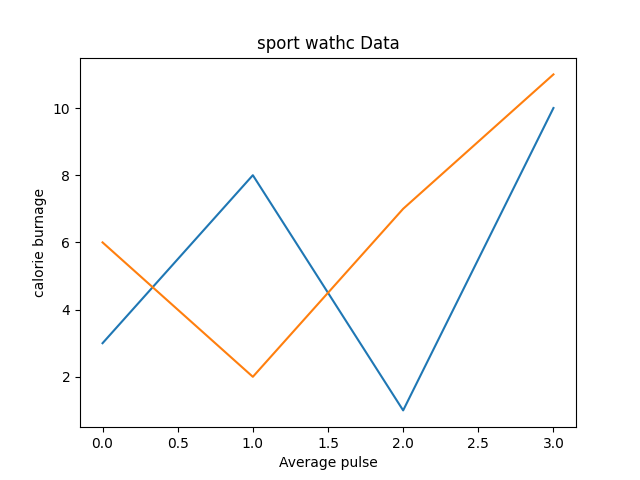
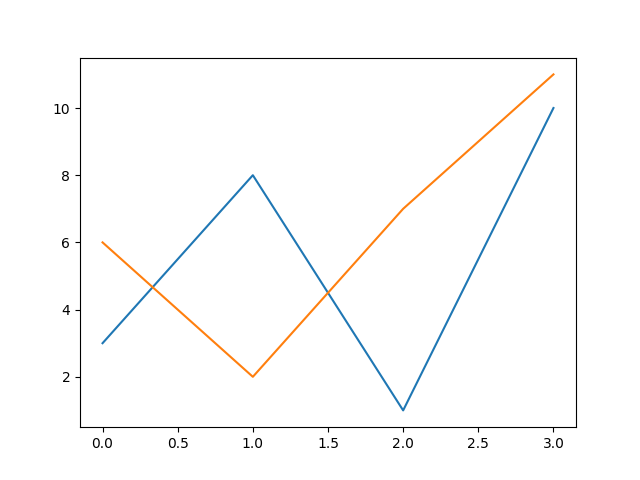
modify code

Changed region(s): [[0.4062, 0.0625, 0.625, 0.125], [0.0312, 0.4062, 0.0938, 0.625], [0.4375, 0.9375, 0.5938, 1.0]]

diff --git a/plotLabel1.py b/plotLabel1.py
@@ -1,0 +1,26 @@
+import matplotlib.pyplot as plt
+import numpy as np
+
+y1 = np.array([3, 8, 1, 10])
+y2 = np.array([6, 2, 7, 11])
+
+font1 = {
+    'family': 'serif',
+    'color': 'blue',
+    'size': 10
+}
+
+font2 = {
+    'family': 'serif',
+    'color': 'darkred',  # Corrected typo here
+    'size': 8
+}
+
+plt.plot(y1,y2)
+plt.xlabel("Average pulse", fontdict=font2)
+plt.ylabel("Calorie burnage", fontdict=font2)
+plt.title("Sport Watch Data", fontdict=font1)  # Corrected the typo in title
+
+  # Save the plot to a file
+
+plt.show()  # Display the plot
